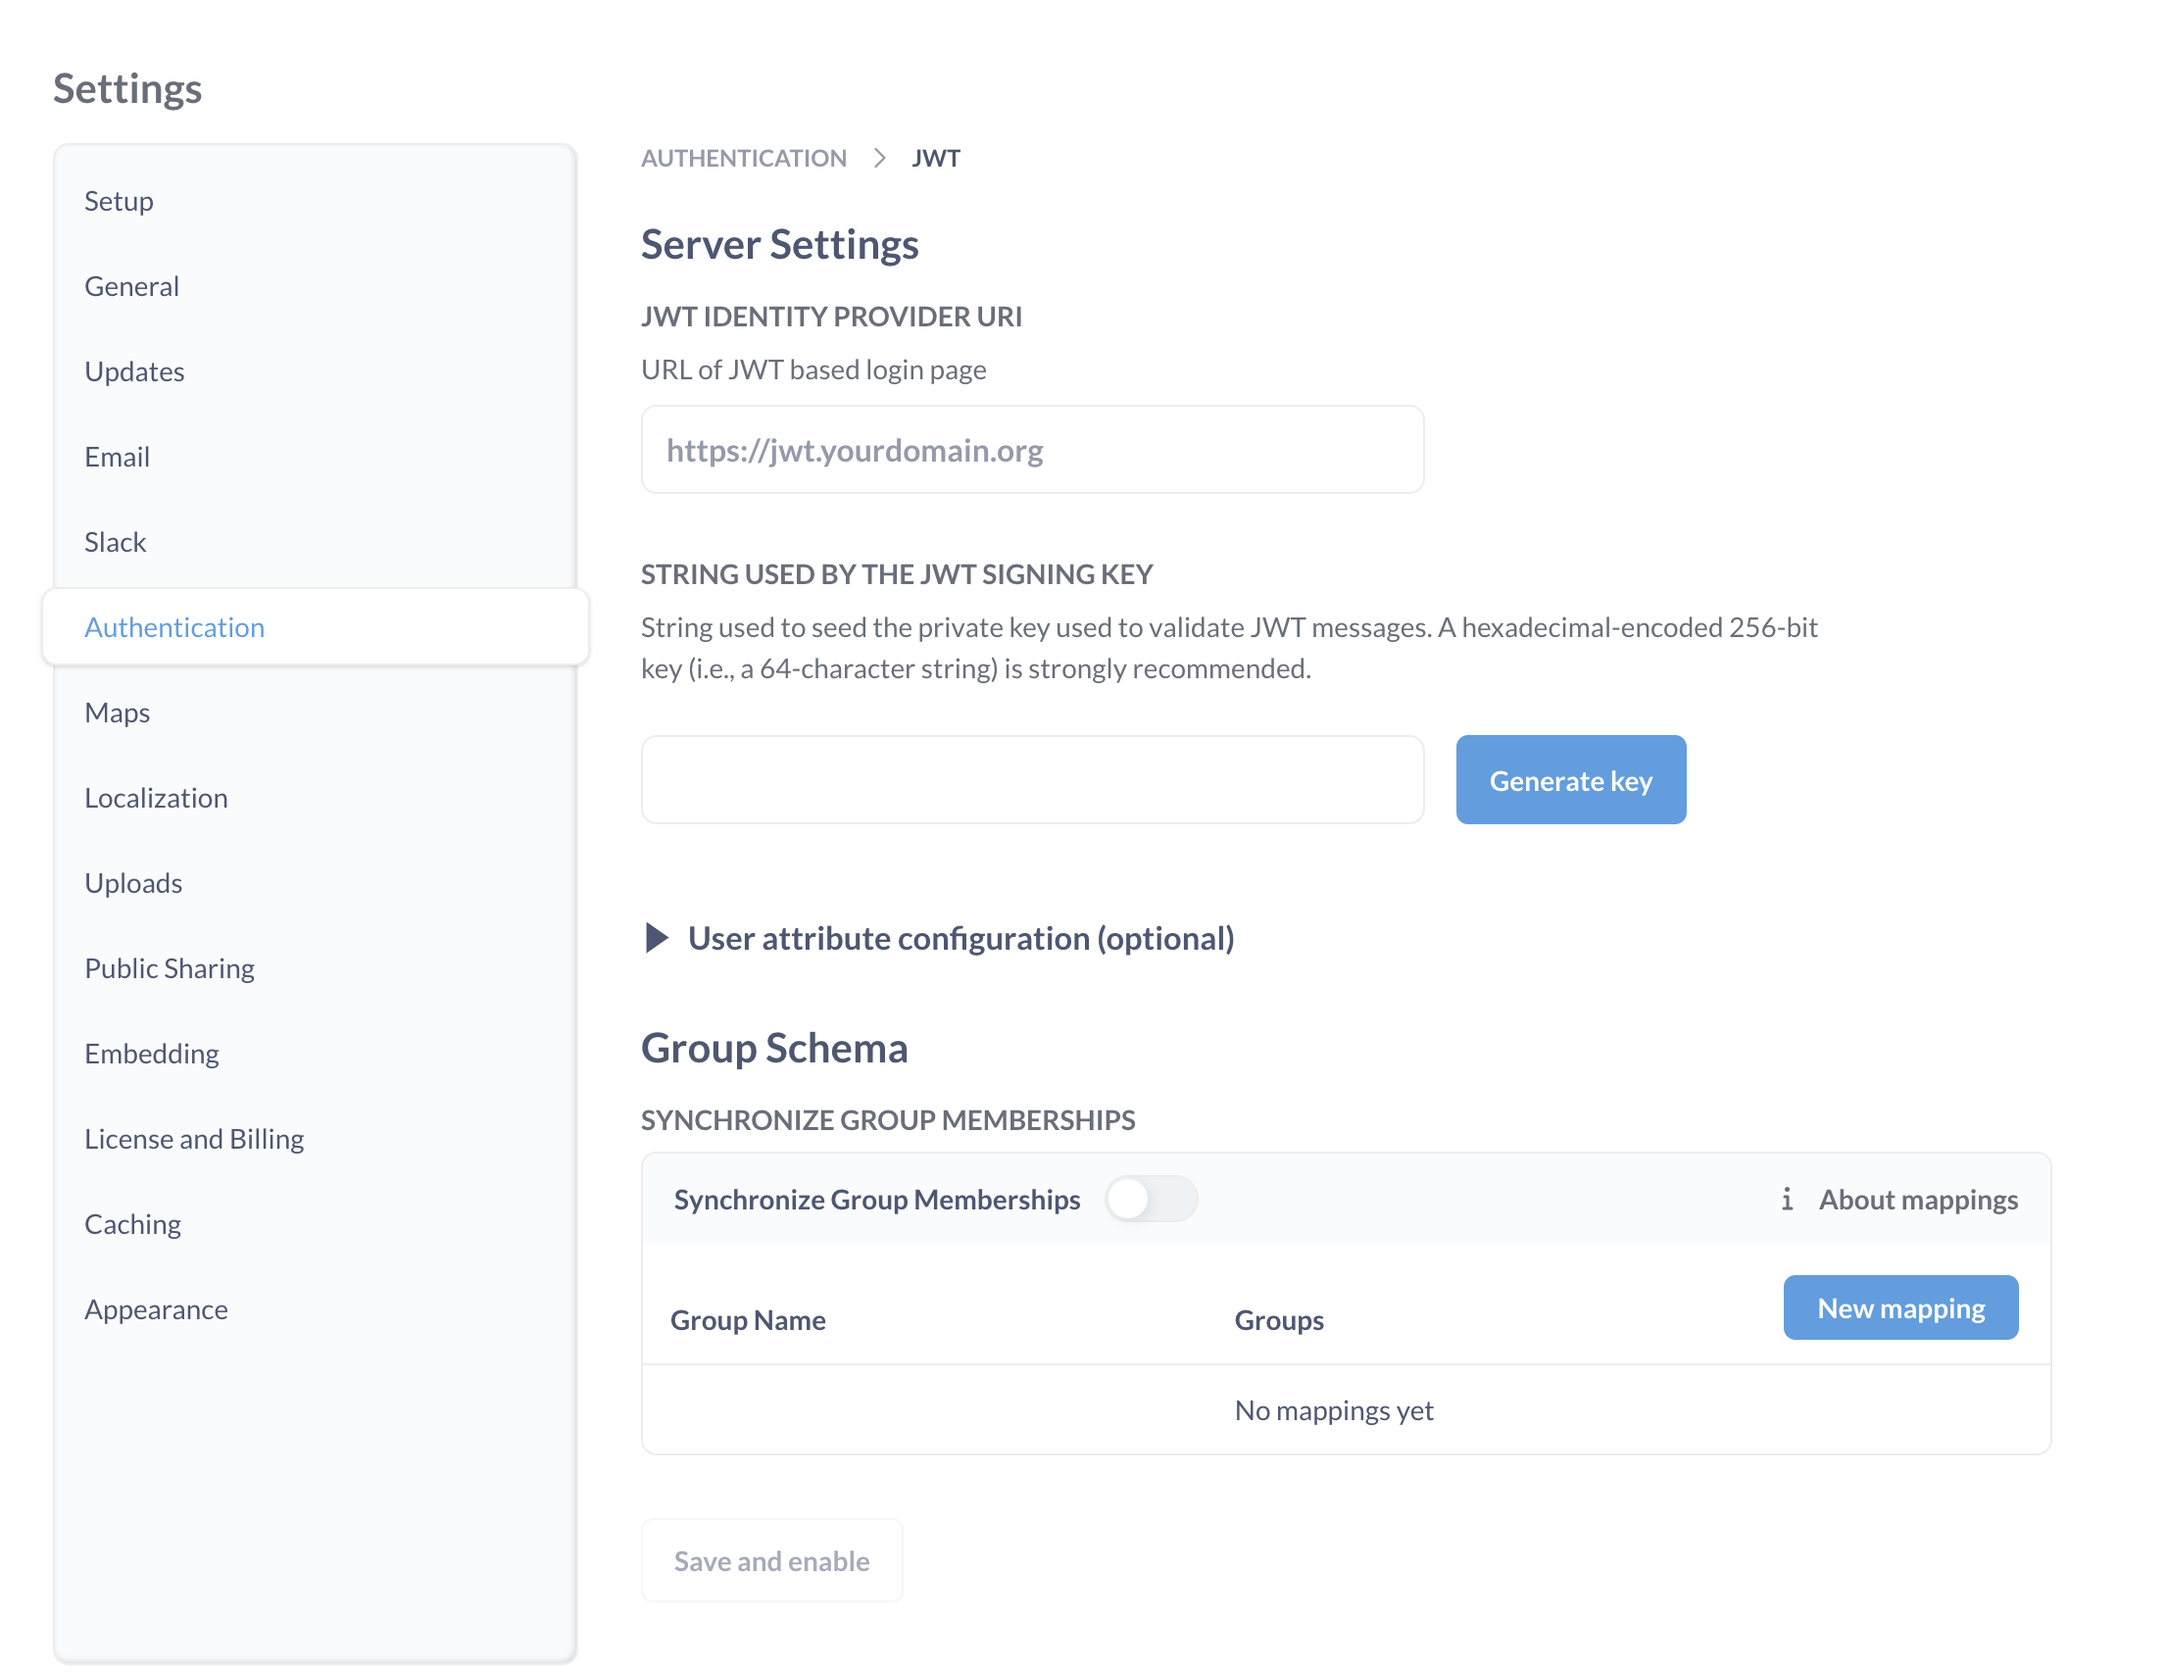
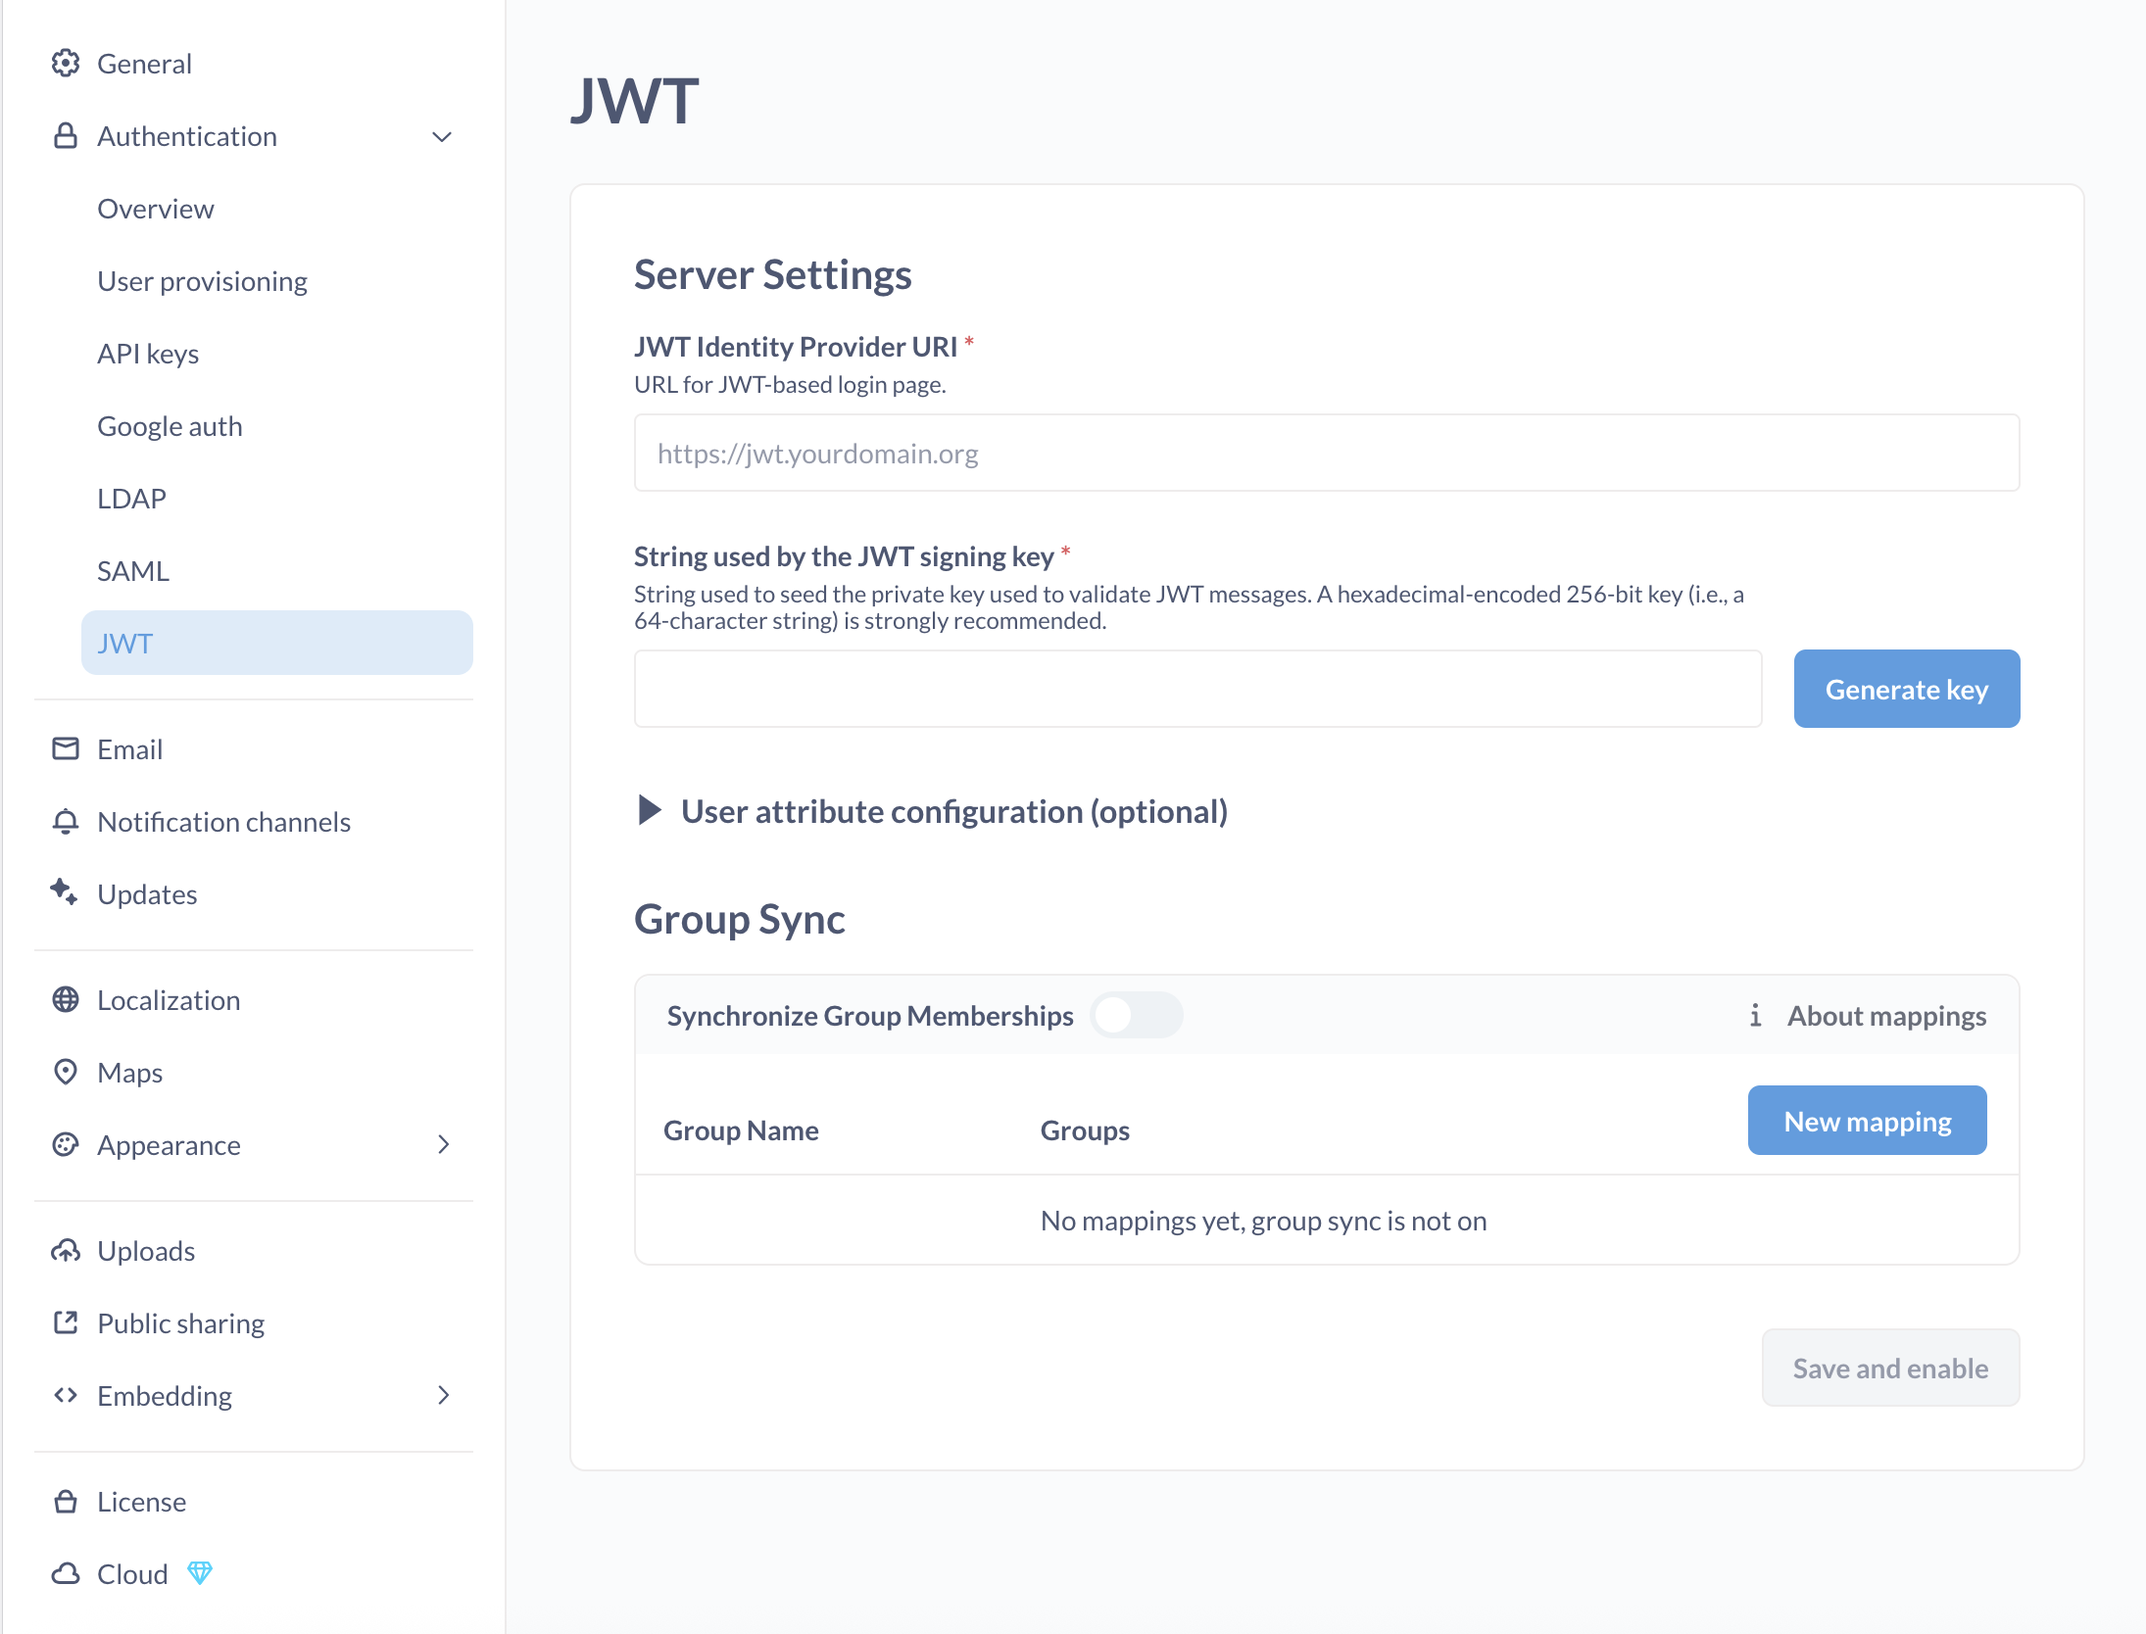
docs: jwt docs  (#61876)
* jwt edits

* Optimized 2 images, saved 188.8 KB (46.0% smaller)

* why are y'all 'waiting for the status to be reported'

---------

diff --git a/docs/people-and-groups/authenticating-with-jwt.md b/docs/people-and-groups/authenticating-with-jwt.md
@@ -22,56 +22,73 @@ Assuming your site is localhost serving on port 3000:
 5. In the event of a successful sign-in, your authentication app should issue a GET request to your Metabase endpoint with the token and the "return to" URI: `http://localhost:3000/auth/sso?jwt=TOKEN_GOES_HERE&return_to=/question/1-superb-question`.
 6. Metabase verifies the JSON Web Token, logs the person in, then redirects the person to their original destination, `/question/1-superb-question`.
 
-## Enabling JWT authentication
+## Set up JWT authentication
 
-Navigate to the **Admin**>**Settings** section of the Admin area, then click on the **Authentication** tab. Click the **Configure** button in the JWT section of this page, and you'll see this form:
+Navigate to the **Admin**>**Settings** section of the Admin area, then click on the **Authentication > JWT** tab.
 
 ![JWT form](images/JWT-auth-form.png)
 
 Here's a breakdown of each of the settings:
 
-**JWT Identity Provider URI:** This is where Metabase will redirect login requests. That is, it's where your users go to log in through your identity provider.
+- **JWT Identity Provider URI**: This is where Metabase will redirect login requests. That is, it's where your users go to log in through your identity provider.
 
-**String Used by the JWT Signing Key:** The string used to seed the private key used to validate JWT messages. Both Metabase and the authentication app should have the same JWT signing key.
+- **String Used by the JWT Signing Key**: The string used to seed the private key used to validate JWT messages. Both Metabase and the authentication app should have the same JWT signing key.
 
 ## User attribute configuration (optional)
 
 These are additional settings you can fill in to pass user attributes to Metabase.
 
 - **Email attribute:** the key to retrieve each JWT user's email address.
-- **First Name attribute:** the key to retrieve each JWT user's first name.
-- **Last Name attribute:** if you guessed that this is the key to retrieve each JWT user's last name, well then you have been paying attention.
+- **First name attribute:** the key to retrieve each JWT user's first name.
+- **Last name attribute:** if you guessed that this is the key to retrieve each JWT user's last name, well then you have been paying attention.
+- **Group assignment attribute:** the key to retrieve each JWT user's group assignments.
 
 You can send additional user attributes to Metabase by adding the attributes as key/value pairs to your JWT. These attributes will be synced on every login.
 
 ## Configure group mappings
 
-You can use your JWT to assign Metabase users to custom groups.
+You can use your JWT to assign Metabase users to custom Metabase [groups](./managing.md#groups) based on their attributes, e.g. automatically assign everyone with a certain JWT attribute to the `Sales` group in Metabase. This can be helpful for [permissions management](../permissions/introduction.md#key-points-regarding-permissions) at scale.
 
-1. Add groups to your JWT: `groups: ["group_name"]`.
-1. In Metabase, go to the Admin panel and switch to **Setting > Authentication** tab.
-1. Click the **Configure** button under JWT.
-1. Under **Group Schema**, turn on the toggle **Synchronize Group Memberships**
-1. Click **New mapping** and add the name of a JWT group.
+You can configure JWT group assignments through Metabase's Admin interface, or by setting environment variables.
+
+### Configure group mapping in Metabase
+
+1. Add groups to your JWT: `groups: ["group_name"]`. The attribute key (e.g. `groups`) should match the **Group assignment attribute** in Metabase.
+1. In Metabase JWT settings, under **Group Sync**, toggle on **Synchronize Group Memberships**
+1. If the group names in your JWT match the Metabase group names, they will be synced automatically, and you don't need to set up mappings manually.
+
+1. Otherwise, click **New mapping** and add the name of a JWT group.
 1. In the row that appears, click the dropdown to pick the Metabase group(s) that this should map to.
    ![Metabase JWT group mappings](./images/jwt-groups.png)
 1. Repeat this for each of the groups you want to map.
 
-Alternatively, you can define the mappings between JWT and Metabase groups using the [environment variable `MB_JWT_GROUP_MAPPINGS`](../configuring-metabase/environment-variables.md#mb_jwt_group_mappings). It accepts a JSON object where the keys are JWT groups and the values are lists of Metabase groups IDs. For example:
+### Configure group mapping through environment variables
 
-```
-MB_JWT_GROUP_MAPPINGS='{"extHR":[7], "extSales":[3,4]}'
-```
+You can use the following environment variables to configure JTW group mappings instead of configuring them in Metabase's Admin settings:
 
-where `extHR`, `extSales` are names of JWT groups and 3,4,7 are IDs of Metabase groups.
+- [`MB_JWT_ATTRIBUTE_GROUPS`](../configuring-metabase/environment-variables#mb_jwt_attribute_groups) to specify the key to retrieve the JWT user’s groups;
 
-You can find Metabase Group ID in the URL for the group page, like `http://your-metabase-url/admin/people/groups/<ID>`. "All Users" group has ID 1 and "Administrators" group has ID 2.
+- [`MB_JWT_GROUP_SYNC`](../configuring-metabase/environment-variables.md#mb_jwt_group_sync) to turn group sync on or off (sync is off by default).
 
-You can also use the [environment variable `MB_JWT_GROUP_SYNC`](../configuring-metabase/environment-variables.md#mb_jwt_group_sync) to turn group sync on or off.
+  ```
+  MB_JWT_GROUP_SYNC=true
+  ```
 
-```
-MB_JWT_GROUP_SYNC=true
-```
+- [`MB_JWT_GROUP_MAPPINGS`](../configuring-metabase/environment-variables.md#mb_jwt_group_mappings) to configure group mapping. It accepts a JSON object where the keys are JWT groups and the values are lists of Metabase groups IDs. For example:
+
+  ```
+  MB_JWT_GROUP_MAPPINGS='{"extHR":[7], "extSales":[3,4]}'
+  ```
+
+  where `extHR`, `extSales` are names of JWT groups and 3,4,7 are IDs of Metabase groups.
+
+  You can find Metabase Group ID in the URL for the group page, like `http://your-metabase-url/admin/people/groups/<ID>`. "All Users" group has ID 1 and "Administrators" group has ID 2.
+
+### If group mappings are not specified, Metabase will match groups by name
+
+If you don't specify any group mappings in Metabase's Admin settings or via `MB_JWT_GROUP_MAPPINGS` environment variables, then Metabase will try to assign Metabase groups to users based on the matching names. If the names of groups in the JWT group attribute array match Metabase group names exactly (e.g. both are `"Sales"`), then the groups will be mapped automatically.
+
+If you add group mappings manually, Metabase will _not_ try to also match groups by names.
 
 ## Creating Metabase accounts with SSO
 

diff --git a/docs/embedding/interactive-embedding-quick-start-guide.md b/docs/embedding/interactive-embedding-quick-start-guide.md
@@ -169,7 +169,9 @@ You'll map this string in the `groups` key to a Metabase group, so that when the
 
 In Metabase's admin section, go to **Settings** > **Authentication**. Scroll to the **JWT** card and click **Edit**.
 
-In the **Group schema** section, toggle on **Synchronize group memberships**. For each group you want to sync, add a group mapping. When you click **New mapping**, enter "Customer-Acme", the string that you included in the `groups` array in your JWT payload. You can then associate that group name with the Metabase group "Customer Acme" that we created earlier.
+In the **Group schema** section, toggle on **Synchronize group memberships**. If the names of groups in the `groups` array match Metabase group names exactly (e.g. both are `"Customer Acme"`), then the groups will be mapped automatically.
+
+If the JWT group names and Metabase group names don't match, then for each group you want to sync, add a group mapping. When you click **New mapping**, enter "Customer-Acme", the string that you included in the `groups` array in your JWT payload. You can then associate that group name with the Metabase group "Customer Acme" that we created earlier.
 
 ![Mapping user attributes to groups.](./images/sync-groups.png)
 
